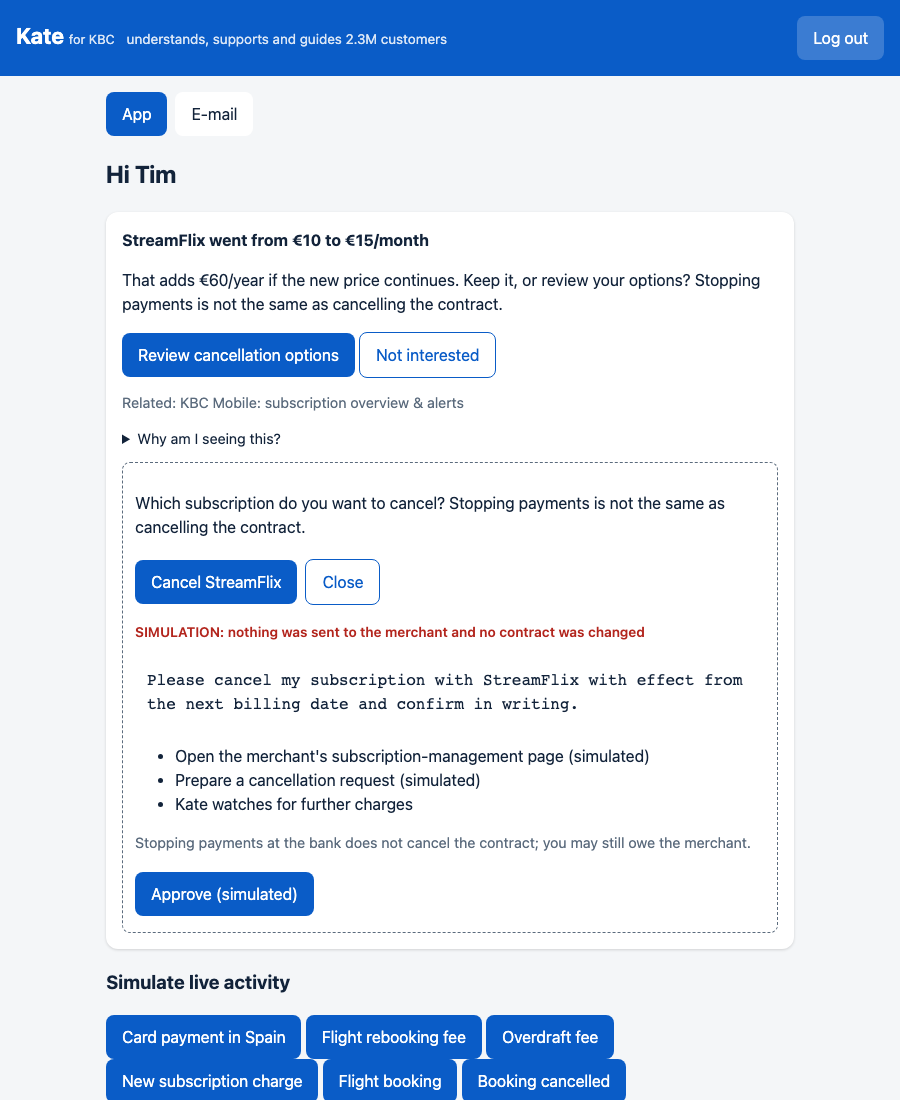
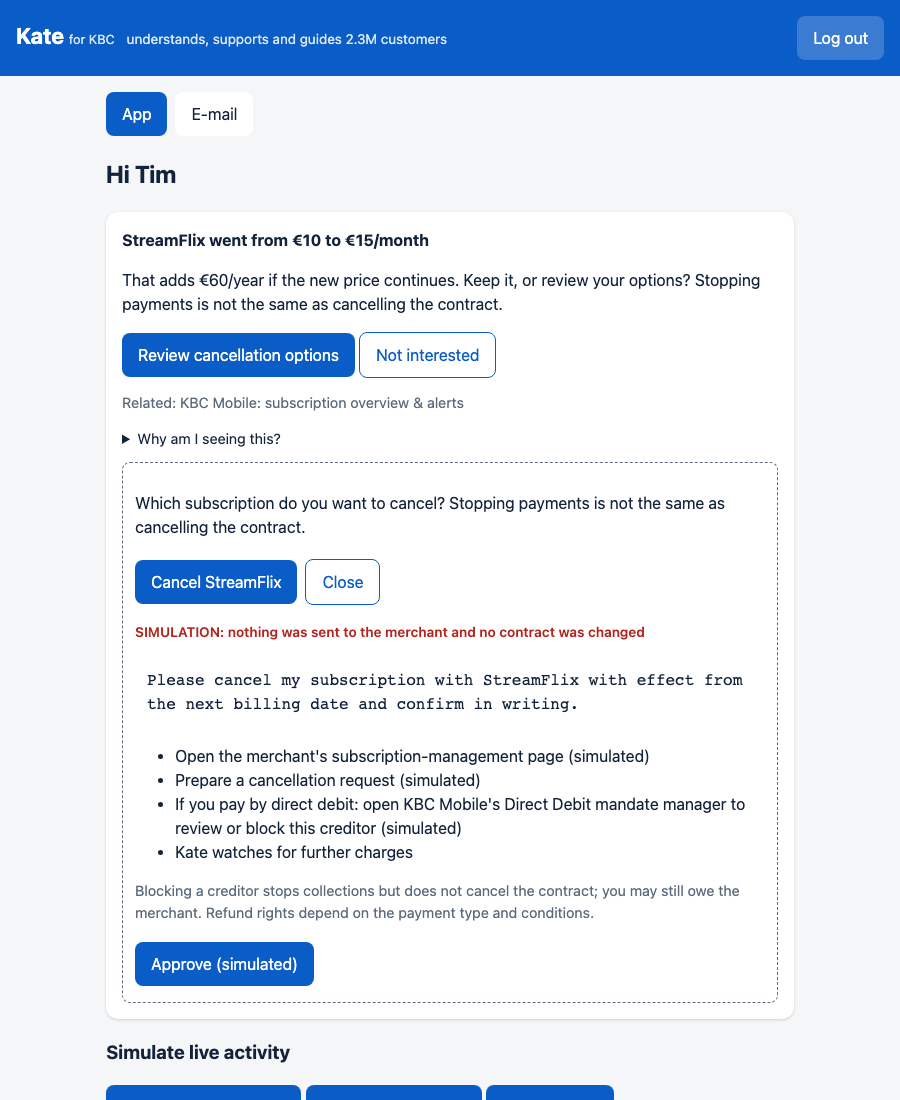
Merge subscriptions trial reminder; trial reminder flow; customer-chosen automatic saving limit

Changed region(s): [[0.0933, 0.7109, 0.84, 1.0]]

diff --git a/public/actions.js b/public/actions.js
@@ -77,6 +77,7 @@
     const route = (text) => () => { result.textContent = text; };
     if (f.savingsTransfer) {
       const t = f.savingsTransfer;
+      const limit = el('input', { type: 'number', min: '1', step: '50', value: String(Math.min(t.amount, 500)) });
       panel.append(el('p', { className: 'sim', textContent: 'SIMULATION: only moves money between your own accounts, only after you approve.' }),
         row('Prepared transfer', `${money(t.amount)} from ${t.from} to ${t.to}`),
         btn(`Approve ${money(t.amount)} transfer`, async () => {
@@ -86,11 +87,13 @@
         }), ' ',
         f.automation.authorized
           ? btn('Turn off automatic saving', async () => { await api('/api/me/preferences', 'PUT', { autoSave: null }); notify('Automatic saving turned off.'); refresh(); }, 'ghost')
-          : btn(`Allow automatic saving up to ${money(f.automation.maxMonthly)}/month`, async () => {
-            await api('/api/me/preferences', 'PUT', { autoSave: { max: f.automation.maxMonthly } });
-            notify(`Automatic saving allowed up to ${money(f.automation.maxMonthly)}/month. You can turn it off any time.`);
+          : el('span', {}, el('label', {}, 'Automatic saving limit per month: ', limit), btn('Allow automatic saving', async () => {
+            const max = Number(limit.value);
+            if (!(max > 0)) { notify('Enter a monthly limit above 0.'); return; }
+            await api('/api/me/preferences', 'PUT', { autoSave: { max } });
+            notify(`Automatic saving allowed up to ${money(max)}/month. You can turn it off any time.`);
             refresh();
-          }, 'ghost'));
+          }, 'ghost')));
     }
     panel.append(el('p', { textContent: 'How we got there (correct anything that is off):' }),
       row('Balance', money(f.balance)), row('Bills per month', money(f.bills)), row('Everyday spending per month', money(f.everyday)),
@@ -155,16 +158,15 @@
       btn('Dismiss', () => panel.remove(), 'ghost'), result);
   }
 
-  // ---- subscriptions: a free trial ended and the first paid charge was held ------------------------
-  function trialBlocked(card, panel) {
+  // ---- subscriptions: a trial seems to have started: offer a reminder (Kate never blocks a charge) ----
+  function trialStarted(card, panel) {
     const f = card.facts;
-    panel.append(row('Subscription', f.m), row('First paid charge (held)', money(f.amount)),
-      el('p', { className: 'muted', textContent: 'Holding a payment does not cancel the contract.' }),
-      btn('Enable payments', async () => {
-        await api('/api/me/events', 'POST', { cat: 'subscription_enabled', m: f.m, amt: 0 });
-        notify(`Payments to ${f.m} enabled. Renewals will now go through.`);
-        refresh();
-      }), ' ', btn('Help me cancel', () => { panel.replaceChildren(); cancel(card, panel); }, 'ghost'), ' ', close(panel));
+    const mark = (cat, msg) => async () => { await api('/api/me/events', 'POST', { cat, m: f.m, amt: 0 }); notify(msg); refresh(); };
+    panel.append(row('Trial at', f.m), row('First full payment', `in about ${f.expectedInDays} days (estimate)`),
+      el('p', { className: 'muted', textContent: `Kate can remind you ${f.reminderInDays} days from now so you can cancel in time. Nothing is blocked.` }),
+      btn('Set a reminder', mark('subscription_reminder', `Reminder set for ${f.m}. Kate will nudge you before the first full payment.`)), ' ',
+      btn('I will keep it', mark('subscription_kept', `Noted: you are keeping ${f.m}.`), 'ghost'), ' ',
+      btn('Help me cancel', () => { panel.replaceChildren(); cancel(card, panel); }, 'ghost'), ' ', close(panel));
   }
 
   // ---- travel: a work trip: expense tagging (simulated) --------------------------------------------
@@ -203,7 +205,7 @@
     'review-subscriptions': SUBS, 'subscription-hike': SUBS, 'subscription-cancelled-charge': followUp, 'subscription-annual': SUBS,
     'household-bill-shortfall': (c, p) => (c.facts.transfer ? transfer(c, p) : info(c, p)),
     'excess-cash': savings,
-    'subscription-trial-blocked': trialBlocked,
+    'subscription-trial-started': trialStarted,
     'business-trip': businessTrip,
     'claim-settled': claimSettled,
     'subscription-new': newSubscription,

diff --git a/test/actions.test.js b/test/actions.test.js
@@ -98,11 +98,11 @@ test('automatic saving: limited opt-in that can be turned off', async () => {
   assert.strictEqual(off.autoSave, null);
 });
 
-test('trial held: enabling the payment and marking a claim settled go through the normal paths', async () => {
+test('trial reminder and marking a claim settled go through the normal paths', async () => {
   const u = await as('sub3');
-  assert.ok((await cards(u)).some((x) => x.actionId === 'subscription-trial-blocked'));
-  assert.strictEqual((await u.call('/api/me/events', 'POST', { cat: 'subscription_enabled', m: 'LearnPlus', amt: 0 })).status, 202);
-  assert.ok(!(await cards(u)).some((x) => x.actionId === 'subscription-trial-blocked'));
+  assert.ok((await cards(u)).some((x) => x.actionId === 'subscription-trial-started'));
+  assert.strictEqual((await u.call('/api/me/events', 'POST', { cat: 'subscription_reminder', m: 'LearnPlus', amt: 0 })).status, 202);
+  assert.ok(!(await cards(u)).some((x) => x.actionId === 'subscription-trial-started'));
   const t = await as('tr5');
   assert.strictEqual((await t.call('/api/me/dismiss', 'POST', { actionId: 'claim-settled' })).status, 200);
   assert.ok(!(await cards(t)).some((x) => x.actionId === 'claim-settled'));
